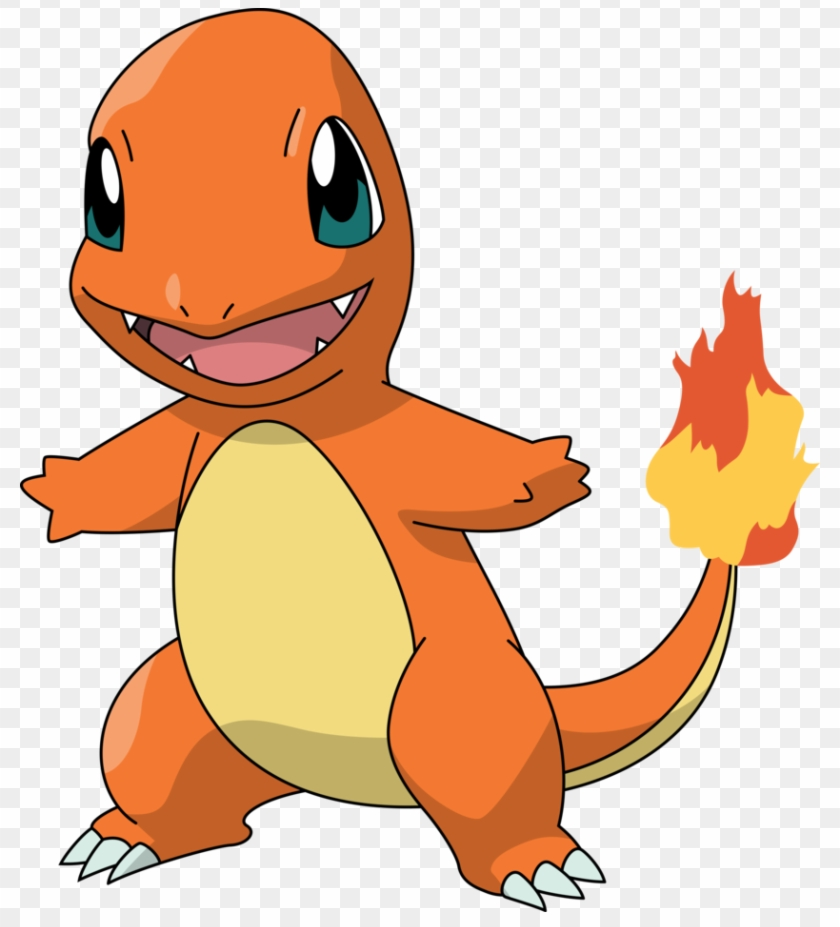
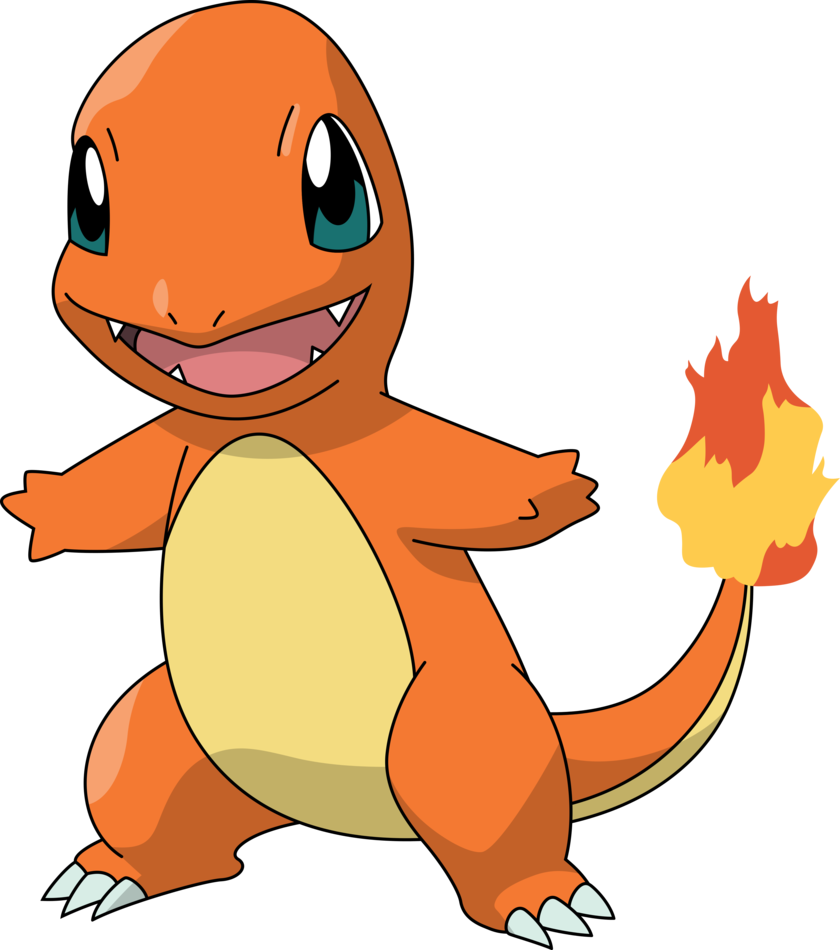
fix size of choices images, flip player image, add background to arena

diff --git a/assets/CSS/style.CSS b/assets/CSS/style.CSS
@@ -6,7 +6,7 @@ body {
 .arena {
     max-width: 60rem;
     height: 30rem;
-    background: #60c505;
+    background: url("../images/background.jpg") no-repeat center center/cover;
     margin: auto;
     display: flex;
     flex-wrap: wrap;
@@ -16,13 +16,16 @@ body {
 }
 
 #opponent-choice, #player-choice {
-    max-width: 45%;
-    height: 20rem;
-    background-color: whitesmoke;
-    margin: 48px;
+    max-width: 35%;
+    margin: 75px;
+}
+
+#player-choice {
+    transform: scaleX(-1);
 }
 
 .controls {
+    background-color: #eaedc8;
     max-width: 60rem;
     height: 5rem;
     margin: auto;
@@ -36,7 +39,6 @@ body {
 #cards, #score {
     max-width: 64%;
     height: 10rem;
-    background-color: whitesmoke;
     display: flex;
     justify-content: space-evenly;
     align-items: center;
